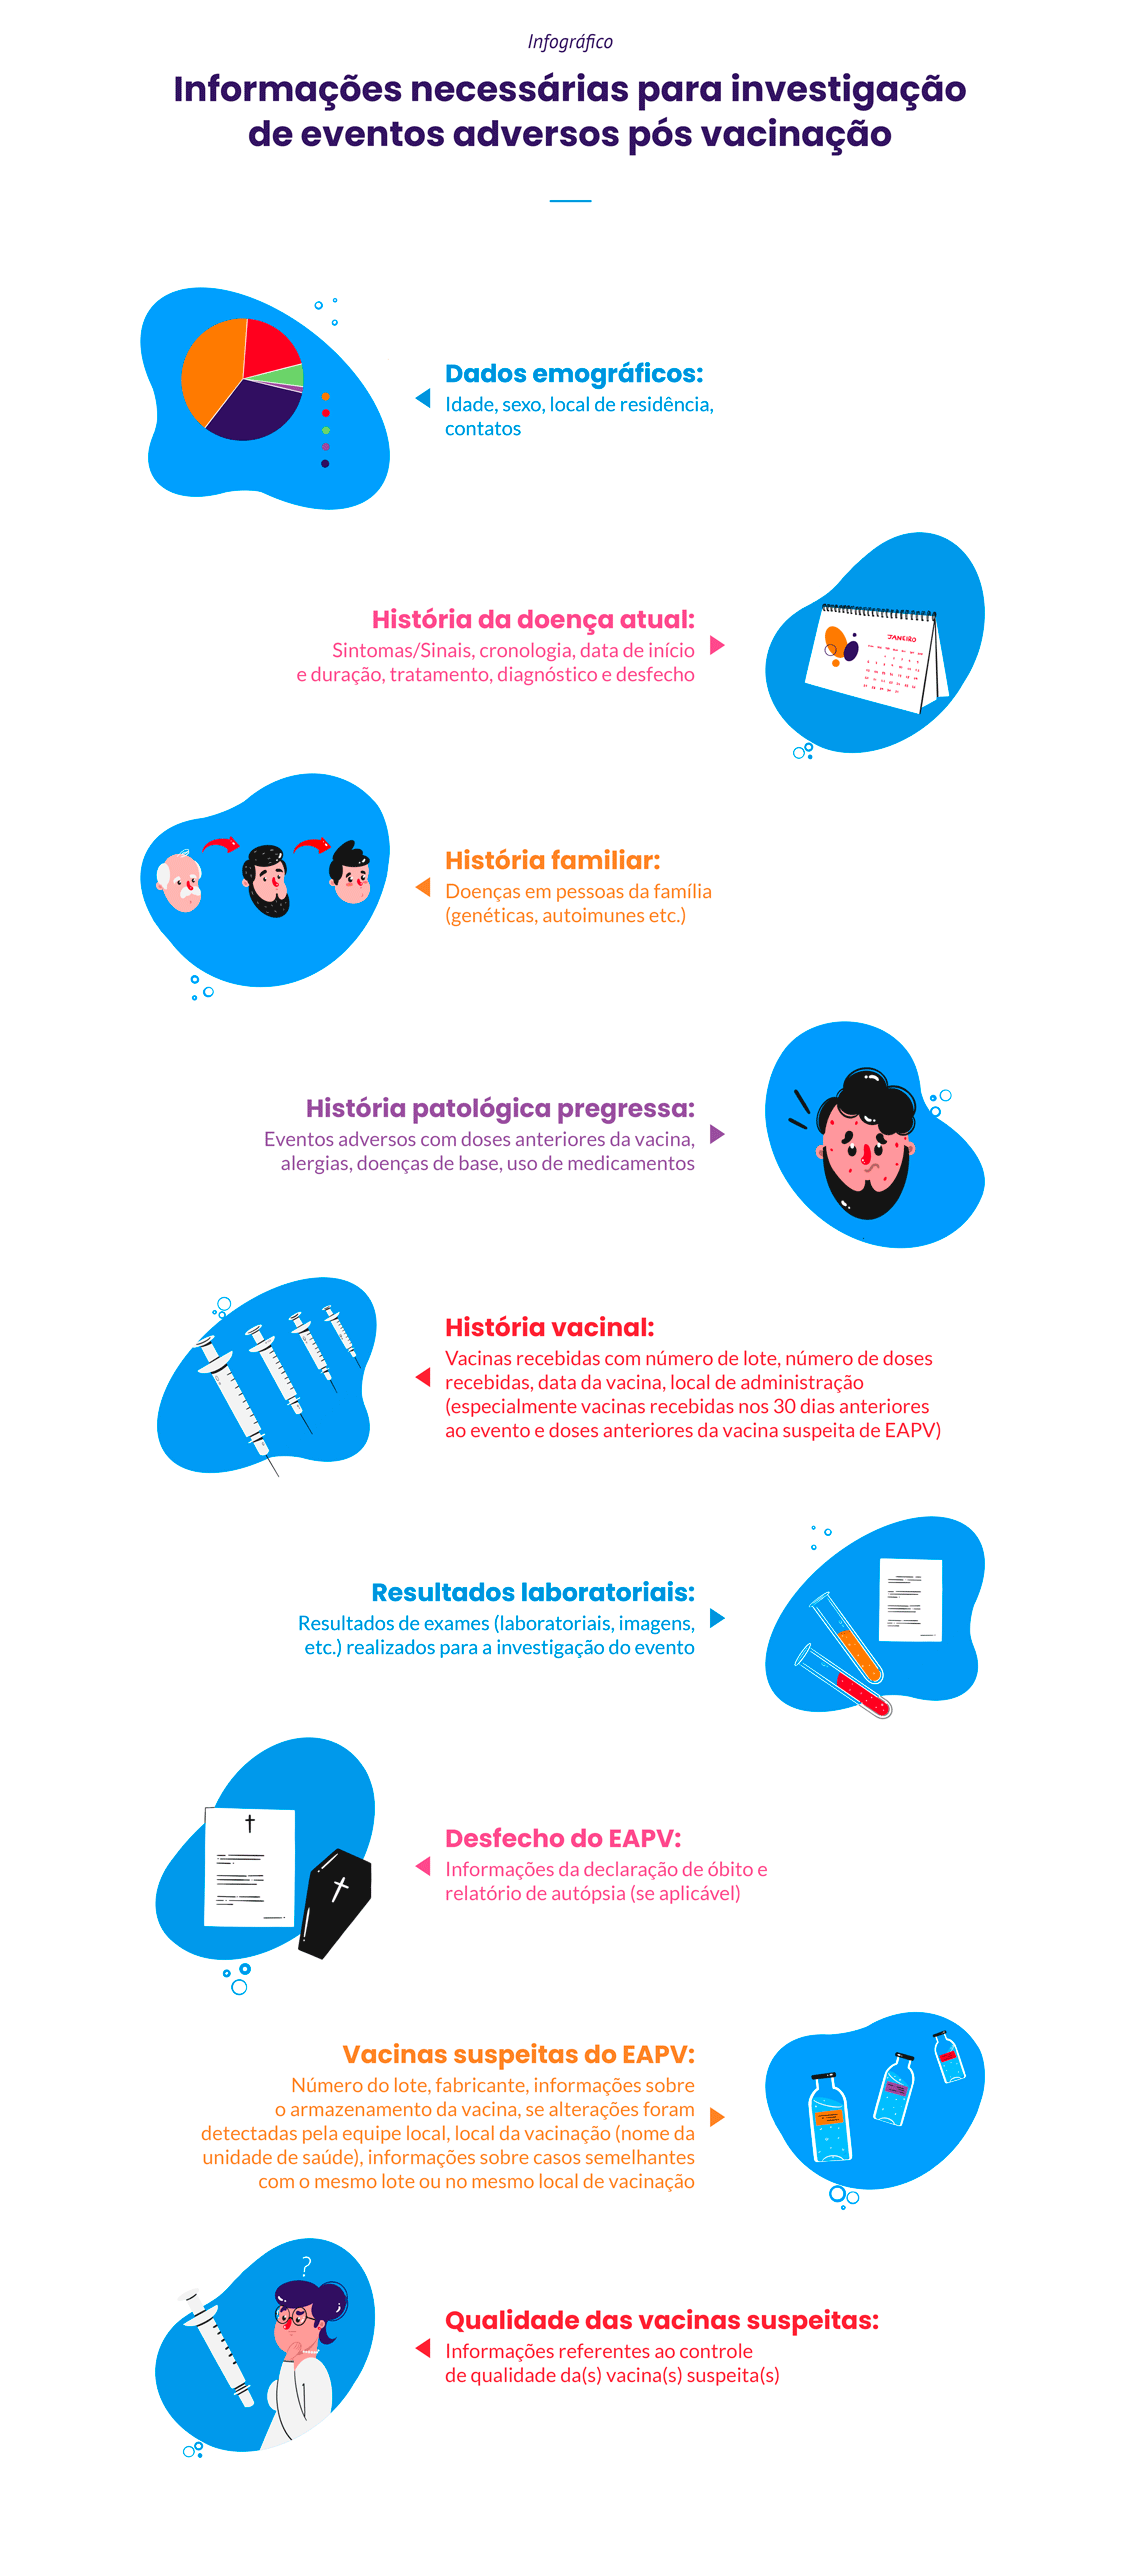
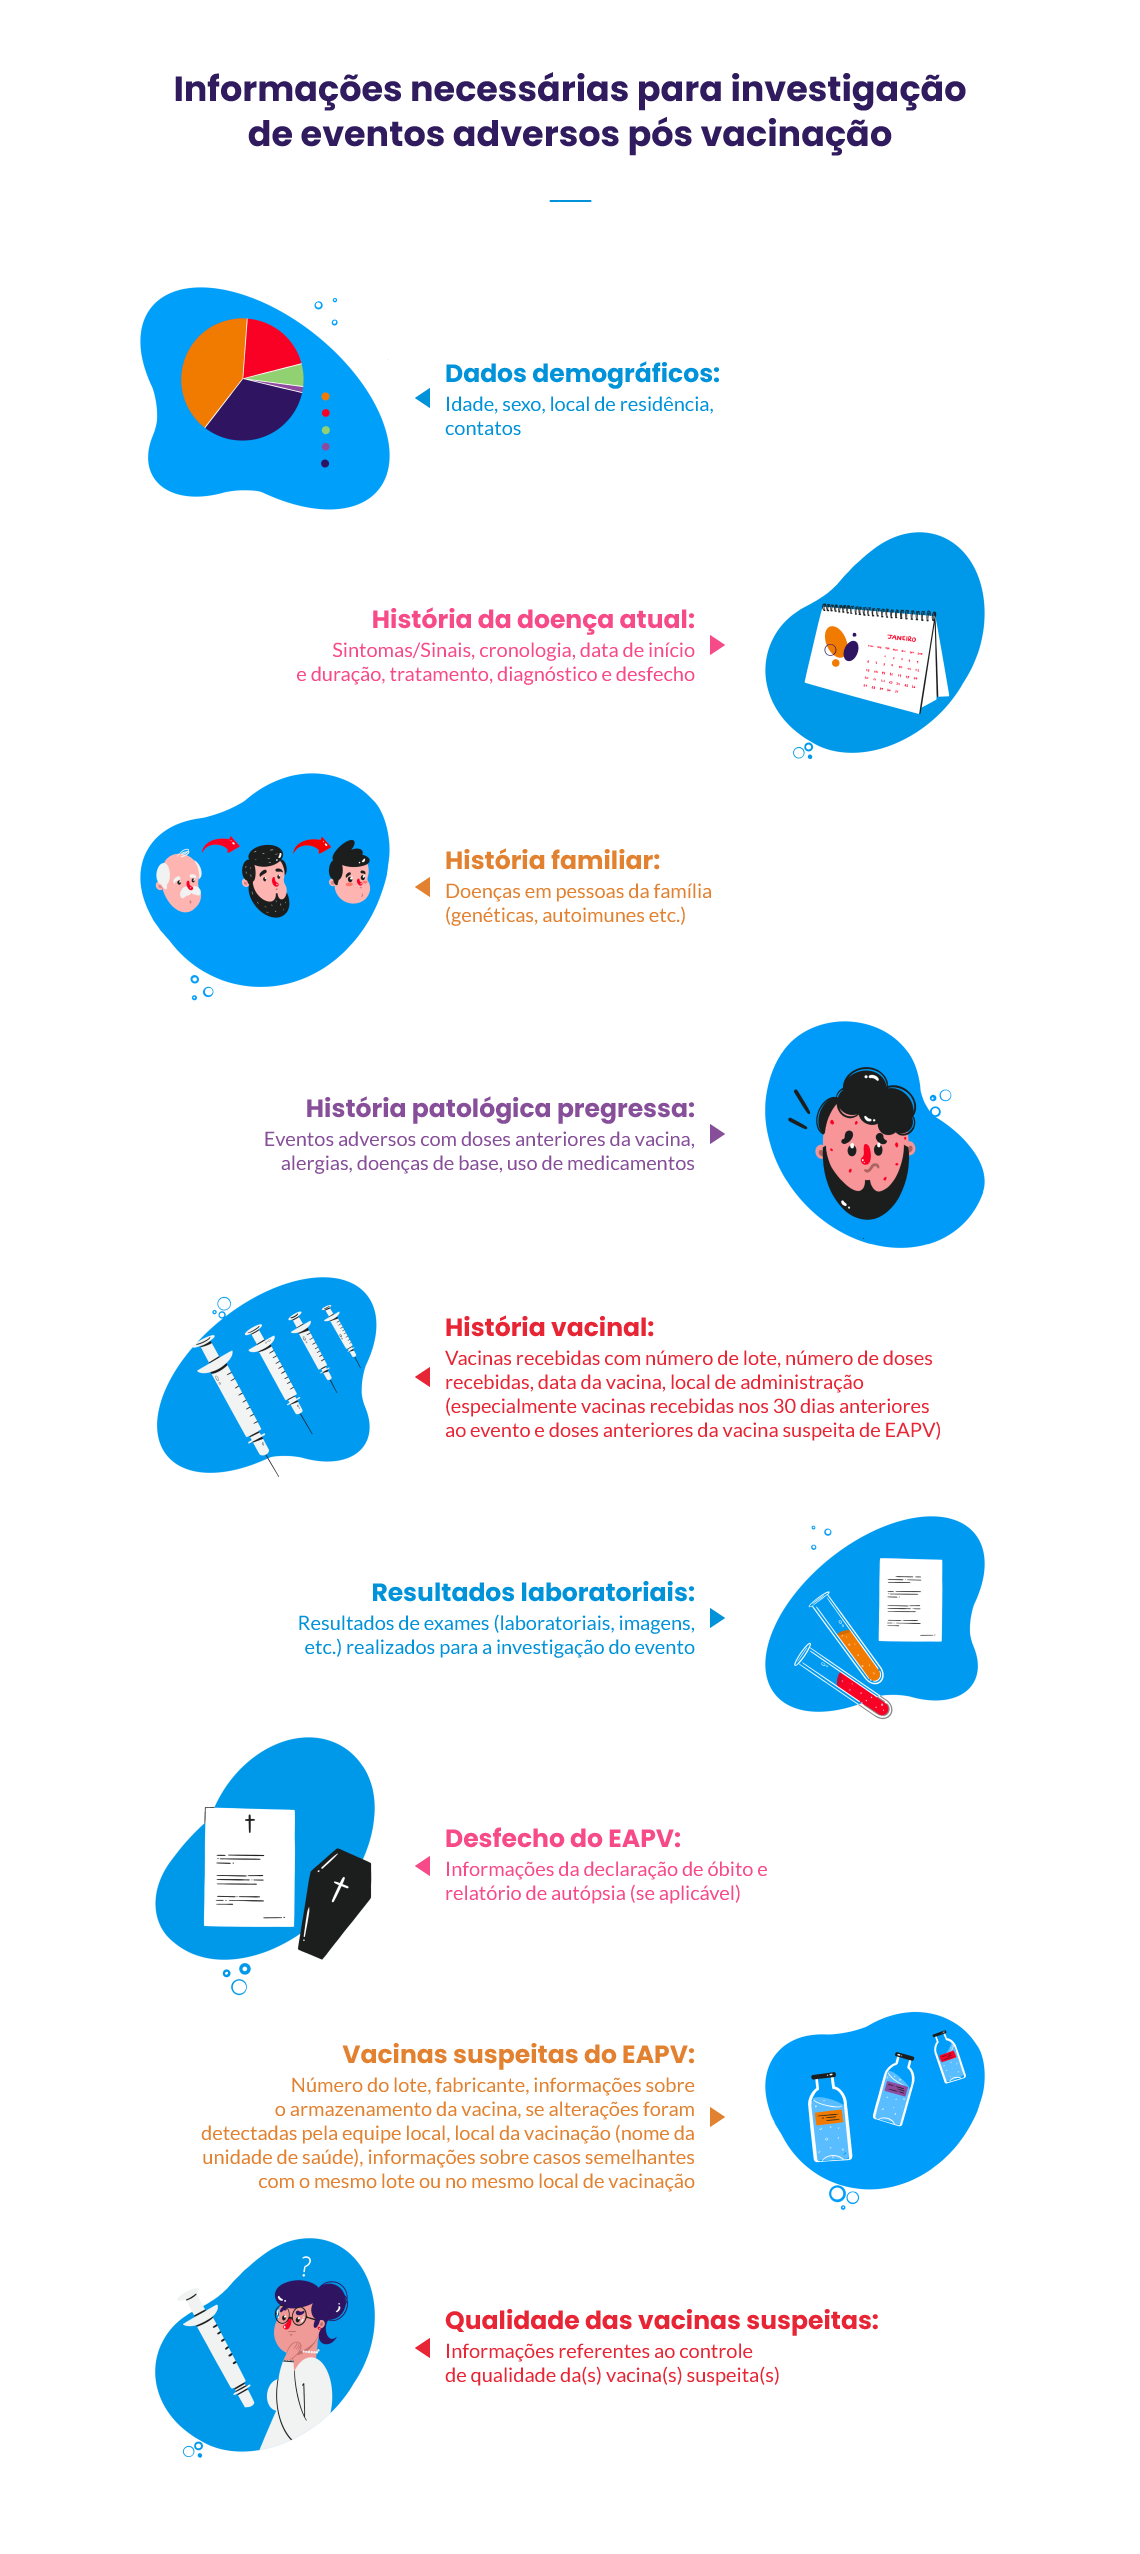
Ajustes Mod 1, Mod 2, Mod 3 e Mod5
- Mod 1, 2, 3 e 5: ajustes nas alturas dos iframes das avaliações.

- Mod 1 > aula 4 > topico 2: inserção do infográfico

diff --git a/curso1/modulo1/aula4/topico2.html b/curso1/modulo1/aula4/topico2.html
@@ -368,13 +368,39 @@
 
 								
 								<br/>
-								<h4>Acompanhe, no infográfico, as etapas de produção da vacina:</h4>
+								<h4>Acompanhe, nos infográficos, as etapas de desenvolvimento de uma vacina:</h4>
 
-								<br/>
-								<p class="text-center" style="color:red;"><strong>AQUI ENTRARÁ UM INFOGRÁFICO! CONTEÚDO EM PRODUÇÃO!</strong></p>
+								<!-- Accordion -->
+								<div id="accordion" class="accordion">
+									<div class="accordion-itens mb-0">
+										<!-- Ítem 1 -->
+										<div class="card-header collapsed" data-toggle="collapse" href="#accordion-item1">
+											<a class="card-title">Fase Exploratória</a>
+										</div>
+										<div id="accordion-item1" class="card-body collapse px-0">
+											<img class="img-fluid rounded mx-auto d-block mb-3" src="../../../img/curso1/modulo1/aula4/topico2/infografico-fase-exploratoria.png" alt="Infográfico sobre o desenvolvimento de Vacinas: Fase exploratória/laboratorial" title="Infográfico sobre o desenvolvimento de Vacinas: Fase exploratória/laboratorial">
+										</div>
 
-								<!-- <img class="img-fluid rounded mx-auto d-block mb-3" src="../../../img/curso1/modulo1/aula3/topico1/img2.jpg" alt="" title="Fonte: Adaptado de Programa de Vacinas Virais – Bio-Manguinhos"> -->
-								<p class="legenda text-center"><a href="infografico.html" target="_blank">Clique para ler a descrição do infográfico.</a></p>
+										<!-- Ítem 2 -->
+										<div class="card-header collapsed" data-toggle="collapse" href="#accordion-item2">
+											<a class="card-title">Fase Pré Clinica</a>
+										</div>
+										<div id="accordion-item2" class="card-body collapse px-0">
+											<img class="img-fluid rounded mx-auto d-block mb-3" src="../../../img/curso1/modulo1/aula4/topico2/infografico-fase-pre-clinica.png" alt="Infográfico sobre o desenvolvimento de Vacinas: Fase pré-clínica" title="Infográfico sobre o desenvolvimento de Vacinas: Fase pré-clínica">
+										</div>
+
+										<!-- Ítem 3 -->
+										<div class="card-header collapsed" data-toggle="collapse" href="#accordion-item3">
+											<a class="card-title">Estudo Clínico</a>
+										</div>
+										<div id="accordion-item3" class="card-body collapse px-0">
+											<img class="img-fluid rounded mx-auto d-block mb-3" src="../../../img/curso1/modulo1/aula4/topico2/infografico-fase-estudo-clinico.png" alt="Infográfico sobre o desenvolvimento de Vacinas: Fase Estudo Clínico" title="Infográfico sobre o desenvolvimento de Vacinas: Fase Estudo Clínico">
+										</div>
+									</div>
+								</div>
+								<!-- Fim do Accordion -->
+
+								<p class="legenda text-center mb-3"><a href="infografico.html" target="_blank">Saiba mais detalhes sobre as Fases de Desenvolvmento das Vacinas</a></p>
 								<p class="fonte text-center">Fonte: Adaptado de Programa de Vacinas Virais – Bio-Manguinhos</p>
 
 								<p>No vídeo, dr. Akira Homma, pesquisador e professor emérito da Fiocruz,  explica as fases do desenvolvimento das vacinas para Covid-19 e os resultados de eficácia da Fase 3 de desenvolvimento.</p>

diff --git a/css/style-recursos-visuais.css b/css/style-recursos-visuais.css
@@ -930,67 +930,102 @@ iframe.atividades {
   width: 100%;
   height: auto;
   min-height: 400px;
+  background: #fff;
+  border: 1px solid var(--cinza-medio) !important;
+  border-radius:5px;
+  box-shadow: 0 4px 8px rgba(0, 0, 0, 0.05) !important;
+  min-height: 990px;
+  padding: 1rem 1.5rem;
 }
 
 /*Módulo 1*/
 
 /* Aula 1 */
-#mod1-aula1-atividade1 {min-height: 300px;}
-#mod1-aula1-atividade2 {min-height: 600px;}
 
-/* Aula 3 */
-#mod1-aula3-atividade1 {min-height: 690px;}
-#mod1-aula3-atividade2 {min-height: 800px;}
+#mod1-aula1-atividade1 {min-height: 550px;}
+#mod1-aula1-atividade2 {min-height: 800px;}
 
 @media (min-width:768px) {
   /* Aula 1 */
-  #mod1-aula1-atividade2 {min-height: 400px;}
+  #mod1-aula1-atividade1 {min-height: 350px;}
+  #mod1-aula1-atividade2 {min-height: 440px;}
 }
 
 @media (min-width:992px) {
   /* Aula 1 */
-  #mod1-aula1-atividade2 {min-height: 350px;}
+  #mod1-aula1-atividade1 {min-height: 300px;}
+  #mod1-aula1-atividade2 {min-height: 415px;}
+}
 
+/* Aula 3 */
+#mod1-aula3-atividade1 {min-height: 870px;}
+#mod1-aula3-atividade2 {min-height: 1020px;}
+
+@media (min-width:768px) {
   /* Aula 3 */
-  #mod1-aula3-atividade2 {min-height: 500px;}
+  #mod1-aula3-atividade1 {min-height: 465px;}
+  #mod1-aula3-atividade2 {min-height: 600px;}
+}
+
+@media (min-width:992px) {
+  /* Aula 3 */
+  #mod1-aula3-atividade1 {min-height: 425px;}
+  #mod1-aula3-atividade2 {min-height: 545px;}
 }
 
 
 /*Módulo 2*/
 
-#mod2-aula3-atividade1 {min-height: 730px;}
+/* Aula 3 */
+#mod2-aula3-atividade1 {min-height: 990px;}
+
+@media (max-width:320px) {
+  #mod2-aula3-atividade1 {min-height: 1060px;}
+}
 
 @media (min-width:768px) {
-  /* Aula 3 */
-  #mod2-aula3-atividade1 {min-height: 460px;}
+  #mod2-aula3-atividade1 {min-height: 550px;}
+}
+
+@media (min-width:992px) {
+  #mod2-aula3-atividade1 {min-height: 500px;}
 }
 
 /*Módulo 3*/
 
 /*Aula 1*/
-#mod3-aula1-atividade1 {min-height: 430px;}
-
-/*Aula 3*/
-#mod3-aula3-atividade1 {min-height: 630px;}
+#mod3-aula1-atividade1 {min-height: 645px;}
 
 @media (max-width:320px) {
   /* Aula 1 */
-  #mod3-aula1-atividade1 {min-height: 490px;}
-
-  /* Aula 3 */
-  #mod3-aula3-atividade1 {min-height: 720px;}
+  #mod3-aula1-atividade1 {min-height: 720px;}
 }
 
 @media (min-width:768px) {
   /* Aula 1 */
-  #mod3-aula1-atividade1 {min-height: 310px;}
+  #mod3-aula1-atividade1 {min-height: 360px;}
+}
 
+@media (min-width:992px) {
+  /* Aula 1 */
+  #mod3-aula1-atividade1 {min-height: 340px;}
+}
+
+/*Aula 3*/
+#mod3-aula3-atividade1 {min-height: 820px;}
+
+@media (max-width:320px) {
+  /* Aula 3 */
+  #mod3-aula3-atividade1 {min-height: 990px;}
+}
+
+@media (min-width:768px) {
   /*Aula 3*/
-  #mod3-aula3-atividade1 {min-height: 400px;}
+  #mod3-aula3-atividade1 {min-height: 445px;}
 }
 
 @media (min-width:992px) {
   /*Aula 3*/
-  #mod3-aula3-atividade1 {min-height: 330px;}
+  #mod3-aula3-atividade1 {min-height: 400px;}
 }
 

diff --git a/curso1/modulo1/aula1/topico4.html b/curso1/modulo1/aula1/topico4.html
@@ -347,13 +347,14 @@
 					<div class="row justify-content-center">
 						<div class="col-11 col-md-10 col-lg-8">
 							<!-- Atividade 1 -->
-							<iframe id="mod1-aula1-atividade1" class="atividades mb-5 mb-md-0 mb-lg-0" src="https://educare.fiocruz.br/h5p-content/embed/?contentId=637061932" width="100%" frameborder="0" allowfullscreen="allowfullscreen"></iframe>
+							<iframe id="mod1-aula1-atividade1" class="atividades mb-3 mb-md-0 mb-lg-3" src="https://educare.fiocruz.br/h5p-content/embed/?contentId=637061932" width="100%" frameborder="0" allowfullscreen="allowfullscreen"></iframe>
 							<!-- Fim da Atividade 1 -->
 
 							<!-- Atividade 2 -->
 							<iframe id="mod1-aula1-atividade2" class="atividades" src="https://educare.fiocruz.br/h5p-content/embed/?contentId=2185241797" width="100%" frameborder="0" allowfullscreen="allowfullscreen"></iframe>
 							<!-- Fim da Atividade 2 -->
 
+							<br/>
 							<br/>
 							<p>Se tiver mais alguns minutos, antes de seguir em frente, recomendamos o texto: </p>
 							<p><a href="https://cee.fiocruz.br/?q=Programa-Nacional-de-Imunizacoes-PNI-e-Covid-19" target="_blank">Programa Nacional de Imunizações (PNI) e Covid&#8209;19: desafios a uma história de quase meio século de sucesso</a>, publicado pelo Centro de Estudos Estratégicos da Fiocruz.</p>

diff --git a/curso1/modulo1/aula3/topico3.html b/curso1/modulo1/aula3/topico3.html
@@ -339,11 +339,11 @@
 							<div class="col-11 col-md-10 col-lg-8">
 
 								<!-- Atividade 1 -->
-								<iframe id="mod1-aula3-atividade1" class="atividades mb-5 mb-md-0 mb-lg-0" src="https://educare.fiocruz.br/h5p-content/embed/?contentId=897850953" width="100%" frameborder="0" allowfullscreen="allowfullscreen"></iframe>
+								<iframe id="mod1-aula3-atividade1" class="atividades mb-3 mb-md-0 mb-lg-3" src="https://educare.fiocruz.br/h5p-content/embed/?contentId=897850953" width="100%" frameborder="0" allowfullscreen="allowfullscreen"></iframe>
 								<!-- Fim da Atividade 1 -->
 
 								<!-- Atividade 2 -->
-								<iframe id="mod1-aula3-atividade2" class="atividades mb-5 mb-md-0 mb-lg-0" src="https://educare.fiocruz.br/h5p-content/embed/?contentId=51404449" width="100%" frameborder="0" allowfullscreen="allowfullscreen"></iframe>
+								<iframe id="mod1-aula3-atividade2" class="atividades mb-3 mb-md-0 mb-lg-0" src="https://educare.fiocruz.br/h5p-content/embed/?contentId=51404449" width="100%" frameborder="0" allowfullscreen="allowfullscreen"></iframe>
 								<!-- Fim da Atividade 2 -->
 		
 								<!--Box Simples -->

diff --git a/curso1/modulo1/aula4/topico3.html b/curso1/modulo1/aula4/topico3.html
@@ -369,14 +369,10 @@
 
 								<p>O processo de produção e controle de qualidade recebem supervisão regulatória do início ao fim. De tempos em tempos as instituições e empresas são auditadas pelas agências nacionais e internacionais para avaliação dos resultados de produção e enquadramento nas especificações.</p>
 
-								<br/>
-
-								<h4>Veja as etapas do processo produtivo de vacina e biofármacos</h4>
-
 								<div class="row">
 									<div class="col-12">
 										
-										<img class="img-fluid rounded mx-auto d-block mb-3" src="../../../img/curso1/modulo1/aula4/topico3/info-processo-produtivo.png" alt="" title="Fonte: Adaptado de ASCOM/Bio-Manguinhos"> 
+										<img class="img-fluid rounded mx-auto d-block mb-3" src="../../../img/curso1/modulo1/aula4/topico3/info-processo-produtivo.png" alt="Infográfico: Etapas do processo produtivo de vacina e biofármacos" title="Infográfico: Etapas do processo produtivo de vacina e biofármacos / Fonte: Adaptado de ASCOM/Bio-Manguinhos"> 
 											<p class="fonte text-center">Fonte: Adaptado de ASCOM/Bio-Manguinhos</p>
 									</div>
 								</div>

diff --git a/curso1/modulo5/aula2/topico3.html b/curso1/modulo5/aula2/topico3.html
@@ -467,14 +467,11 @@
 
 							<br/>
 
-							<h5>Informações necessárias para investigação de eventos adversos pós-vacinação</h5>
-
 							<div class="row">
 								<div class="col-12">
-								<img class="img-fluid rounded mx-auto d-block mb-3" src="../../../img/curso1/modulo5/aula2/topico3/infografico-eventos-adversos.png" alt="" title="">
+								<img class="img-fluid rounded mx-auto d-block mb-3" src="../../../img/curso1/modulo5/aula2/topico3/infografico-eventos-adversos.png" alt="Infográfico: Informações necessárias para investigação de eventos adversos pós-vacinação" title="Infográfico: Informações necessárias para investigação de eventos adversos pós-vacinação">
 							
-
-									<p class="fonte text-center">Fontes: Manual de Vigilância Epidemiológica de Eventos Adversos Pós-Vacinação (4ª ed.) e WHO (2019)</p>
+								<p class="fonte text-center">Fontes: Manual de Vigilância Epidemiológica de Eventos Adversos Pós-Vacinação (4ª ed.) e WHO (2019)</p>
 								</div>
 							</div>
 

diff --git a/curso1/modulo2/aula3/topico4.html b/curso1/modulo2/aula3/topico4.html
@@ -339,7 +339,6 @@
 							<!-- Atividade 1 -->
 							<iframe id="mod2-aula3-atividade1" class="atividades" src="https://educare.fiocruz.br/h5p-content/embed/?contentId=430450036" width="100%" frameborder="0" allowfullscreen="allowfullscreen"></iframe>
 							<!-- Fim da Atividade 1 -->
-
 						</div>
 					</div>
 				</div>
@@ -347,13 +346,13 @@
 
 				 <!-- Bloco 2  -->
 				 <div class="container">
-                    <div class="row justify-content-center">
-                        <div class="col-11 col-md-10 col-lg-12">
+					<div class="row justify-content-center">
+						<div class="col-11 col-md-10 col-lg-12">
 
 							<p style="font-size:1.25rem;" class="text-center azul-escuro"><strong>Você está preparado para a próxima aula. <br>Siga em frente!</strong></p>
 
-                        </div>
-                    </div>
+						</div>
+					</div>
                 </div>
                 <!-- Fim do Bloco 2 -->
               

diff --git a/curso1/modulo3/aula3/topico4.html b/curso1/modulo3/aula3/topico4.html
@@ -330,7 +330,7 @@
 							<p>Agora, vamos relembrar os pontos principais?</p>
                             
                             <!-- Atividade 1 -->
-							<iframe id="mod3-aula3-atividade1" class="atividades mb-5 mb-md-0 mb-lg-0" src="https://educare.fiocruz.br/h5p-content/embed/?contentId=3756062091" width="100%" frameborder="0" allowfullscreen="allowfullscreen"></iframe>
+							<iframe id="mod3-aula3-atividade1" class="atividades mb-3 mb-md-0 mb-lg-0" src="https://educare.fiocruz.br/h5p-content/embed/?contentId=3756062091" width="100%" frameborder="0" allowfullscreen="allowfullscreen"></iframe>
 							<!-- Fim da Atividade 1 -->
                             
 

diff --git a/curso1/modulo3/aula1/topico6.html b/curso1/modulo3/aula1/topico6.html
@@ -355,7 +355,7 @@
 							<p>Vamos relembrar os pontos principais?</p>
 
 							<!-- Atividade 1 -->
-							<iframe id="mod3-aula1-atividade1" class="atividades mb-5 mb-md-0 mb-lg-0" src="https://educare.fiocruz.br/h5p-content/embed/?contentId=1142018894" width="100%" frameborder="0" allowfullscreen="allowfullscreen"></iframe>
+							<iframe id="mod3-aula1-atividade1" class="atividades mb-3 mb-md-0 mb-lg-0" src="https://educare.fiocruz.br/h5p-content/embed/?contentId=1142018894" width="100%" frameborder="0" allowfullscreen="allowfullscreen"></iframe>
 							<!-- Fim da Atividade 1 -->
 
 						</div>
